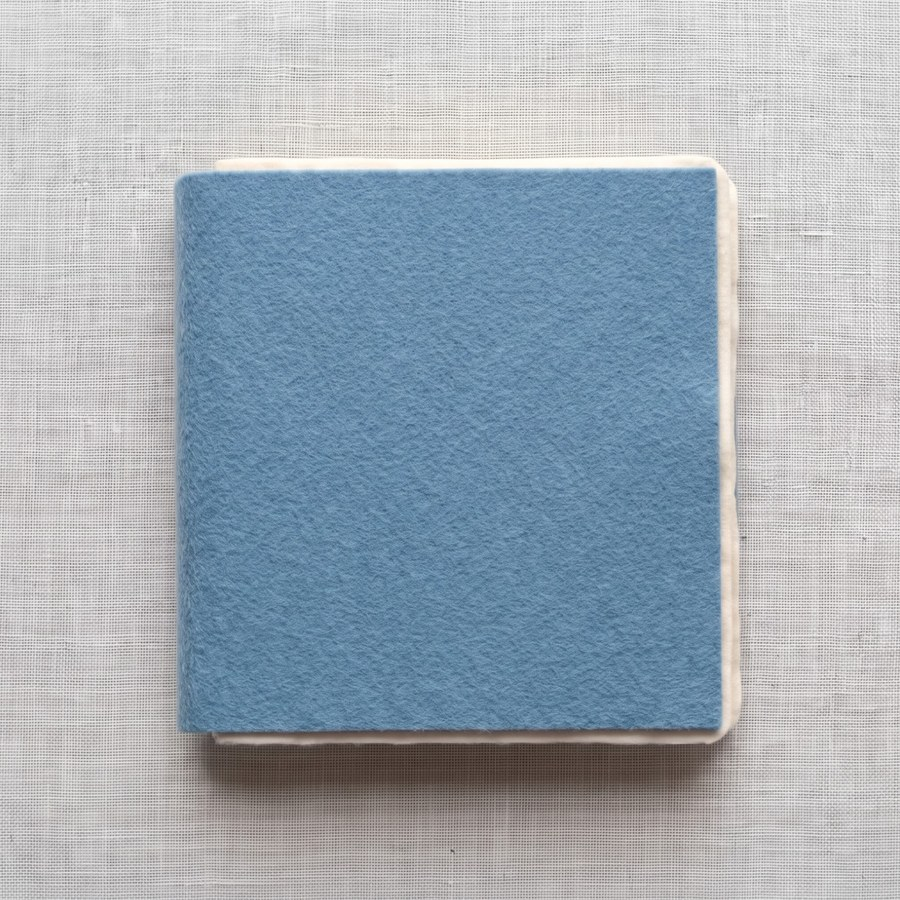
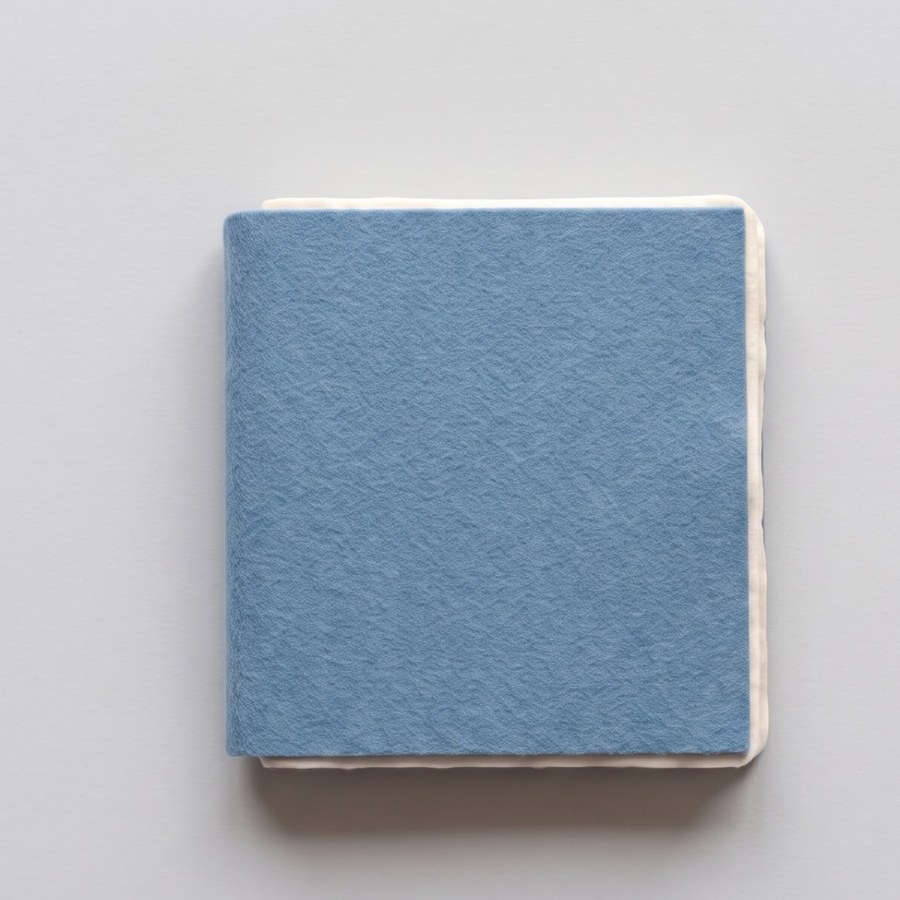
Create a story tile: Jörg's new blue felt book photo
Claude-Session: https://claude.ai/code/session_01NDsvQ4w6b4M39K7iEhCswz

diff --git a/src/screens/Shelf.js b/src/screens/Shelf.js
@@ -95,7 +95,7 @@ function Band({ color, felt, dark, title, sub, action, onAction }) {
 // Your own stories are deleted for good; the built-in books are only removed from the shelf
 // and can be brought back with "Show removed books".
 // My Notebook's cover: the brown leather of the notebook on the start page
-const CREATE_TILE = require('../../assets/tile-create.jpg'); // Jörg's blue felt book on linen (a small + sits in the corner)
+const CREATE_TILE = require('../../assets/tile-create.jpg'); // Jörg's blue felt book on grey paper (a small + sits in the corner)
 const PLAYLISTS_TILE = require('../../assets/tile-playlists.jpg'); // Jörg's stack of felt books, behind the Playlists sign
 const TIP_CHAR = require('../../assets/tip-headphones.png'); // the grey felt character with headphones, in the Audio Player tip
 const NOTEBOOK_COVER = require('../../assets/leather-cover.jpg');
